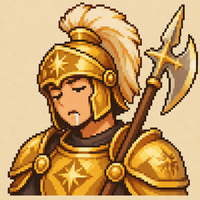
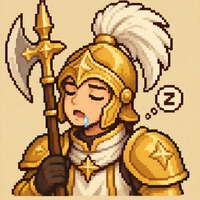
art(portraits): match fox and celestial-guard portraits to their sprites; redraw dialog portrait once it loads
Portrait audit against idle sprites: Anh Hai Hàng Hiệu's portrait wore a
red jacket (sprites are navy monogram) and Thiên Binh's was awake and
plume-less (sprites sleep with a white plume). Both regenerated.
Stage backgrounds audited by world: all 15 fit their world and carry a
ground strip, no change.

Also fixes the dialog card showing the text-sprite fallback for the
whole line when the portrait PNG was still loading on a first visit:
face() now redraws when the image lands if the card still shows that
character.

Claude-Session: https://claude.ai/code/session_01UqXqDxYeGoWj4VXwpkBnn8

diff --git a/public/preview/config.js b/public/preview/config.js
@@ -1,1 +1,1 @@
-var CONFIG = {"analyticsUrl":"https://iyabxhznvcmgbpjzzyta.supabase.co","analyticsKey":"eyJhbGciOiJIUzI1NiIsInR5cCI6IkpXVCJ9.eyJpc3MiOiJzdXBhYmFzZSIsInJlZiI6Iml5YWJ4aHpudmNtZ2Jwanp6eXRhIiwicm9sZSI6ImFub24iLCJpYXQiOjE3NjYxMjc0NDUsImV4cCI6MjA4MTcwMzQ0NX0.nvWnfif5VzxEZCpEwCgSeJrCLGzbTSzFFzeMAny6eUk","portal":"","version":"21babe6","lang":"","img":["s/bangnhi-attack","s/bangnhi-block","s/bangnhi-down","s/bangnhi-hurt","s/bangnhi-idle","s/bangnhi-super","s/bangvuong-attack","s/bangvuong-down","s/bangvuong-hurt","s/bangvuong-idle","s/canhcut-attack","s/canhcut-down","s/canhcut-hurt","s/canhcut-idle","s/cao-attack","s/cao-block","s/cao-hurt","s/cao-idle","s/gabip-idle","s/ganuong-attack","s/ganuong-down","s/ganuong-hurt","s/ganuong-idle","s/hoalong-attack","s/hoalong-down","s/hoalong-hurt","s/hoalong-idle","s/hoayen-attack","s/hoayen-block","s/hoayen-down","s/hoayen-hurt","s/hoayen-idle","s/hoayen-super","s/khilua-attack","s/khilua-down","s/khilua-hurt","s/khilua-idle","s/linhco-attack","s/linhco-block","s/linhco-hurt","s/linhco-idle","s/linhdem-attack","s/linhdem-block","s/linhdem-hurt","s/linhdem-idle","s/lytruong-attack","s/lytruong-down","s/lytruong-hurt","s/lytruong-idle","s/nguoituyet-attack","s/nguoituyet-down","s/nguoituyet-hurt","s/nguoituyet-idle","s/rua-attack","s/rua-down","s/rua-hurt","s/rua-idle","s/thachlao-attack","s/thachlao-block","s/thachlao-down","s/thachlao-hurt","s/thachlao-idle","s/thachlao-super","s/thienbinh-attack","s/thienbinh-down","s/thienbinh-hurt","s/thienbinh-idle","s/tibup-attack","s/tibup-block","s/tibup-down","s/tibup-hurt","s/tibup-idle","s/tibup-jump","s/tibup-super","s/tibup-walk","s/tiennu-attack","s/tiennu-down","s/tiennu-hurt","s/tiennu-idle","s/traului-attack","s/traului-down","s/traului-hurt","s/traului-idle","s/vitgia-attack","s/vitgia-block","s/vitgia-hurt","s/vitgia-idle","p/bangnhi","p/bangvuong","p/banoi","p/canhcut","p/cao","p/gabip","p/ganuong","p/hoalong","p/hoayen","p/khilua","p/linhco","p/linhdem","p/lytruong","p/nguoituyet","p/rua","p/thachlao","p/thienbinh","p/tibup","p/tiennu","p/traului","p/vitgia","bg/chodem","bg/chodem2","bg/chodem3","bg/congtroi","bg/congtroi2","bg/congtroi3","bg/daolua","bg/daolua2","bg/daolua3","bg/langtre","bg/langtre2","bg/langtre3","bg/pro-banoi","bg/pro-rua","bg/songbang","bg/songbang2","bg/songbang3"],"imgBase":"../img/"};
+var CONFIG = {"analyticsUrl":"https://iyabxhznvcmgbpjzzyta.supabase.co","analyticsKey":"eyJhbGciOiJIUzI1NiIsInR5cCI6IkpXVCJ9.eyJpc3MiOiJzdXBhYmFzZSIsInJlZiI6Iml5YWJ4aHpudmNtZ2Jwanp6eXRhIiwicm9sZSI6ImFub24iLCJpYXQiOjE3NjYxMjc0NDUsImV4cCI6MjA4MTcwMzQ0NX0.nvWnfif5VzxEZCpEwCgSeJrCLGzbTSzFFzeMAny6eUk","portal":"","version":"8027e36","lang":"","img":["s/bangnhi-attack","s/bangnhi-block","s/bangnhi-down","s/bangnhi-hurt","s/bangnhi-idle","s/bangnhi-super","s/bangvuong-attack","s/bangvuong-down","s/bangvuong-hurt","s/bangvuong-idle","s/canhcut-attack","s/canhcut-down","s/canhcut-hurt","s/canhcut-idle","s/cao-attack","s/cao-block","s/cao-hurt","s/cao-idle","s/gabip-idle","s/ganuong-attack","s/ganuong-down","s/ganuong-hurt","s/ganuong-idle","s/hoalong-attack","s/hoalong-down","s/hoalong-hurt","s/hoalong-idle","s/hoayen-attack","s/hoayen-block","s/hoayen-down","s/hoayen-hurt","s/hoayen-idle","s/hoayen-super","s/khilua-attack","s/khilua-down","s/khilua-hurt","s/khilua-idle","s/linhco-attack","s/linhco-block","s/linhco-hurt","s/linhco-idle","s/linhdem-attack","s/linhdem-block","s/linhdem-hurt","s/linhdem-idle","s/lytruong-attack","s/lytruong-down","s/lytruong-hurt","s/lytruong-idle","s/nguoituyet-attack","s/nguoituyet-down","s/nguoituyet-hurt","s/nguoituyet-idle","s/rua-attack","s/rua-down","s/rua-hurt","s/rua-idle","s/thachlao-attack","s/thachlao-block","s/thachlao-down","s/thachlao-hurt","s/thachlao-idle","s/thachlao-super","s/thienbinh-attack","s/thienbinh-down","s/thienbinh-hurt","s/thienbinh-idle","s/tibup-attack","s/tibup-block","s/tibup-down","s/tibup-hurt","s/tibup-idle","s/tibup-jump","s/tibup-super","s/tibup-walk","s/tiennu-attack","s/tiennu-down","s/tiennu-hurt","s/tiennu-idle","s/traului-attack","s/traului-down","s/traului-hurt","s/traului-idle","s/vitgia-attack","s/vitgia-block","s/vitgia-hurt","s/vitgia-idle","p/bangnhi","p/bangvuong","p/banoi","p/canhcut","p/cao","p/gabip","p/ganuong","p/hoalong","p/hoayen","p/khilua","p/linhco","p/linhdem","p/lytruong","p/nguoituyet","p/rua","p/thachlao","p/thienbinh","p/tibup","p/tiennu","p/traului","p/vitgia","bg/chodem","bg/chodem2","bg/chodem3","bg/congtroi","bg/congtroi2","bg/congtroi3","bg/daolua","bg/daolua2","bg/daolua3","bg/langtre","bg/langtre2","bg/langtre3","bg/pro-banoi","bg/pro-rua","bg/songbang","bg/songbang2","bg/songbang3"],"imgBase":"../img/"};

diff --git a/src/game.html b/src/game.html
@@ -262,7 +262,8 @@ body.zh{--font:'Be Vietnam Pro','PingFang SC','Hiragino Sans GB','Microsoft YaHe
     if (navigator.clipboard && navigator.clipboard.writeText) navigator.clipboard.writeText(text).then(function(){ toast(ok); }, fallback); else fallback();
   }
   function show(id){ ['s-title', 's-map', 's-result', 's-shop'].forEach(function(s){ $(s).hidden = s !== id; }); if (id === 's-title') { if (typeof dailyBadge === 'function') dailyBadge(); shopLabel(); } }
-  function face(canvas, name, swap){ var pim = typeof ASSETS !== 'undefined' ? ASSETS.img('p/' + name) : null;
+  function face(canvas, name, swap){ var pim = typeof ASSETS !== 'undefined' ? ASSETS.img('p/' + name) : null; canvas.setAttribute('data-face', name);
+    if (!pim && typeof ASSETS !== 'undefined' && ASSETS.has('p/' + name)) ASSETS.load('p/' + name).then(function(im){ if (im && canvas.getAttribute('data-face') === name) face(canvas, name, swap); });   /* portrait still loading: redraw once it lands */
     if (pim) { canvas.width = 192; canvas.height = 240; var pc = canvas.getContext('2d'), pk = Math.max(192 / pim.width, 240 / pim.height); pc.drawImage(pim, (192 - pim.width * pk) / 2, 0, pim.width * pk, pim.height * pk); canvas.className = 'img'; return; }
     if (canvas.className === 'img') { canvas.className = ''; canvas.width = canvas.width === 192 ? 64 : canvas.width; canvas.height = canvas.height === 240 ? 80 : canvas.height; }
     var c = canvas.getContext('2d'); c.clearRect(0, 0, canvas.width, canvas.height); var sz = spriteSize(name); var sc = Math.floor(Math.min(canvas.width / sz.w, canvas.height / sz.h)); drawSprite(c, name, Math.floor((canvas.width - sz.w * sc) / 2), canvas.height - Math.floor((canvas.height - sz.h * sc) / 2), sc, false, swap); }

diff --git a/public/game.js b/public/game.js
@@ -43,7 +43,8 @@
     if (navigator.clipboard && navigator.clipboard.writeText) navigator.clipboard.writeText(text).then(function(){ toast(ok); }, fallback); else fallback();
   }
   function show(id){ ['s-title', 's-map', 's-result', 's-shop'].forEach(function(s){ $(s).hidden = s !== id; }); if (id === 's-title') { if (typeof dailyBadge === 'function') dailyBadge(); shopLabel(); } }
-  function face(canvas, name, swap){ var pim = typeof ASSETS !== 'undefined' ? ASSETS.img('p/' + name) : null;
+  function face(canvas, name, swap){ var pim = typeof ASSETS !== 'undefined' ? ASSETS.img('p/' + name) : null; canvas.setAttribute('data-face', name);
+    if (!pim && typeof ASSETS !== 'undefined' && ASSETS.has('p/' + name)) ASSETS.load('p/' + name).then(function(im){ if (im && canvas.getAttribute('data-face') === name) face(canvas, name, swap); });   /* portrait still loading: redraw once it lands */
     if (pim) { canvas.width = 192; canvas.height = 240; var pc = canvas.getContext('2d'), pk = Math.max(192 / pim.width, 240 / pim.height); pc.drawImage(pim, (192 - pim.width * pk) / 2, 0, pim.width * pk, pim.height * pk); canvas.className = 'img'; return; }
     if (canvas.className === 'img') { canvas.className = ''; canvas.width = canvas.width === 192 ? 64 : canvas.width; canvas.height = canvas.height === 240 ? 80 : canvas.height; }
     var c = canvas.getContext('2d'); c.clearRect(0, 0, canvas.width, canvas.height); var sz = spriteSize(name); var sc = Math.floor(Math.min(canvas.width / sz.w, canvas.height / sz.h)); drawSprite(c, name, Math.floor((canvas.width - sz.w * sc) / 2), canvas.height - Math.floor((canvas.height - sz.h * sc) / 2), sc, false, swap); }

diff --git a/public/preview/game.js b/public/preview/game.js
@@ -43,7 +43,8 @@
     if (navigator.clipboard && navigator.clipboard.writeText) navigator.clipboard.writeText(text).then(function(){ toast(ok); }, fallback); else fallback();
   }
   function show(id){ ['s-title', 's-map', 's-result', 's-shop'].forEach(function(s){ $(s).hidden = s !== id; }); if (id === 's-title') { if (typeof dailyBadge === 'function') dailyBadge(); shopLabel(); } }
-  function face(canvas, name, swap){ var pim = typeof ASSETS !== 'undefined' ? ASSETS.img('p/' + name) : null;
+  function face(canvas, name, swap){ var pim = typeof ASSETS !== 'undefined' ? ASSETS.img('p/' + name) : null; canvas.setAttribute('data-face', name);
+    if (!pim && typeof ASSETS !== 'undefined' && ASSETS.has('p/' + name)) ASSETS.load('p/' + name).then(function(im){ if (im && canvas.getAttribute('data-face') === name) face(canvas, name, swap); });   /* portrait still loading: redraw once it lands */
     if (pim) { canvas.width = 192; canvas.height = 240; var pc = canvas.getContext('2d'), pk = Math.max(192 / pim.width, 240 / pim.height); pc.drawImage(pim, (192 - pim.width * pk) / 2, 0, pim.width * pk, pim.height * pk); canvas.className = 'img'; return; }
     if (canvas.className === 'img') { canvas.className = ''; canvas.width = canvas.width === 192 ? 64 : canvas.width; canvas.height = canvas.height === 240 ? 80 : canvas.height; }
     var c = canvas.getContext('2d'); c.clearRect(0, 0, canvas.width, canvas.height); var sz = spriteSize(name); var sc = Math.floor(Math.min(canvas.width / sz.w, canvas.height / sz.h)); drawSprite(c, name, Math.floor((canvas.width - sz.w * sc) / 2), canvas.height - Math.floor((canvas.height - sz.h * sc) / 2), sc, false, swap); }

diff --git a/public/config.js b/public/config.js
@@ -1,1 +1,1 @@
-var CONFIG = {"analyticsUrl":"https://iyabxhznvcmgbpjzzyta.supabase.co","analyticsKey":"eyJhbGciOiJIUzI1NiIsInR5cCI6IkpXVCJ9.eyJpc3MiOiJzdXBhYmFzZSIsInJlZiI6Iml5YWJ4aHpudmNtZ2Jwanp6eXRhIiwicm9sZSI6ImFub24iLCJpYXQiOjE3NjYxMjc0NDUsImV4cCI6MjA4MTcwMzQ0NX0.nvWnfif5VzxEZCpEwCgSeJrCLGzbTSzFFzeMAny6eUk","portal":"","version":"21babe6","lang":"","img":[],"imgBase":"img/"};
+var CONFIG = {"analyticsUrl":"https://iyabxhznvcmgbpjzzyta.supabase.co","analyticsKey":"eyJhbGciOiJIUzI1NiIsInR5cCI6IkpXVCJ9.eyJpc3MiOiJzdXBhYmFzZSIsInJlZiI6Iml5YWJ4aHpudmNtZ2Jwanp6eXRhIiwicm9sZSI6ImFub24iLCJpYXQiOjE3NjYxMjc0NDUsImV4cCI6MjA4MTcwMzQ0NX0.nvWnfif5VzxEZCpEwCgSeJrCLGzbTSzFFzeMAny6eUk","portal":"","version":"8027e36","lang":"","img":[],"imgBase":"img/"};

diff --git a/docs/art-style-guide.md b/docs/art-style-guide.md
@@ -71,3 +71,5 @@ Mỗi vùng có ba sân đấu: cửa 1–3 cảnh chính, cửa 4–5 cảnh ha
 Thêm vào mẫu sprite: `walk` = "walking mid-stride with one leg forward and arms swinging"; `jump` = "mid-air jumping pose with knees tucked up and one fist raised high"; `block` = "guarding stance with both forearms raised in front of the face, knees slightly bent, braced against a hit"; `down` = "knocked down and lying flat on the ground on the back with arms spread, little stars circling above, eyes as crosses"; `super` = tư thế tuyệt chiêu riêng (xem `SUPERS` trong world.js). Loader rơi về: down → hurt, block/jump/walk/crouch → idle, super → attack.
 
 Quy tắc đồng nhất tạo hình (2026-10-26): mỗi tư thế mới của một nhân vật phải lặp lại nguyên văn DESC của nhân vật đó và nói rõ phụ kiện đầu (ví dụ Tí Bụp: `bare head with NO hat, topknot bun with yellow headband`), vì model hay tự thêm nón lá hoặc đổi trang phục. Trước khi nhận hình, xếp tất cả tư thế của nhân vật cạnh nhau để so tóc, mũ, áo, giày.
+
+Rà toàn bộ ngày 2026-10-26: 8 tư thế x 4 nhân vật chơi, 16 đối thủ, 21 chân dung, 17 nền đã xếp cạnh nhau và so. Đã sinh lại 12 hình (tibup x5, hoayen-block, rua-attack, cao-block, linhdem-block, p/cao, p/thienbinh). Chân dung phải khớp sprite idle về trang phục, mũ, biểu cảm đặc trưng (ví dụ Thiên Binh luôn ngủ gật).
